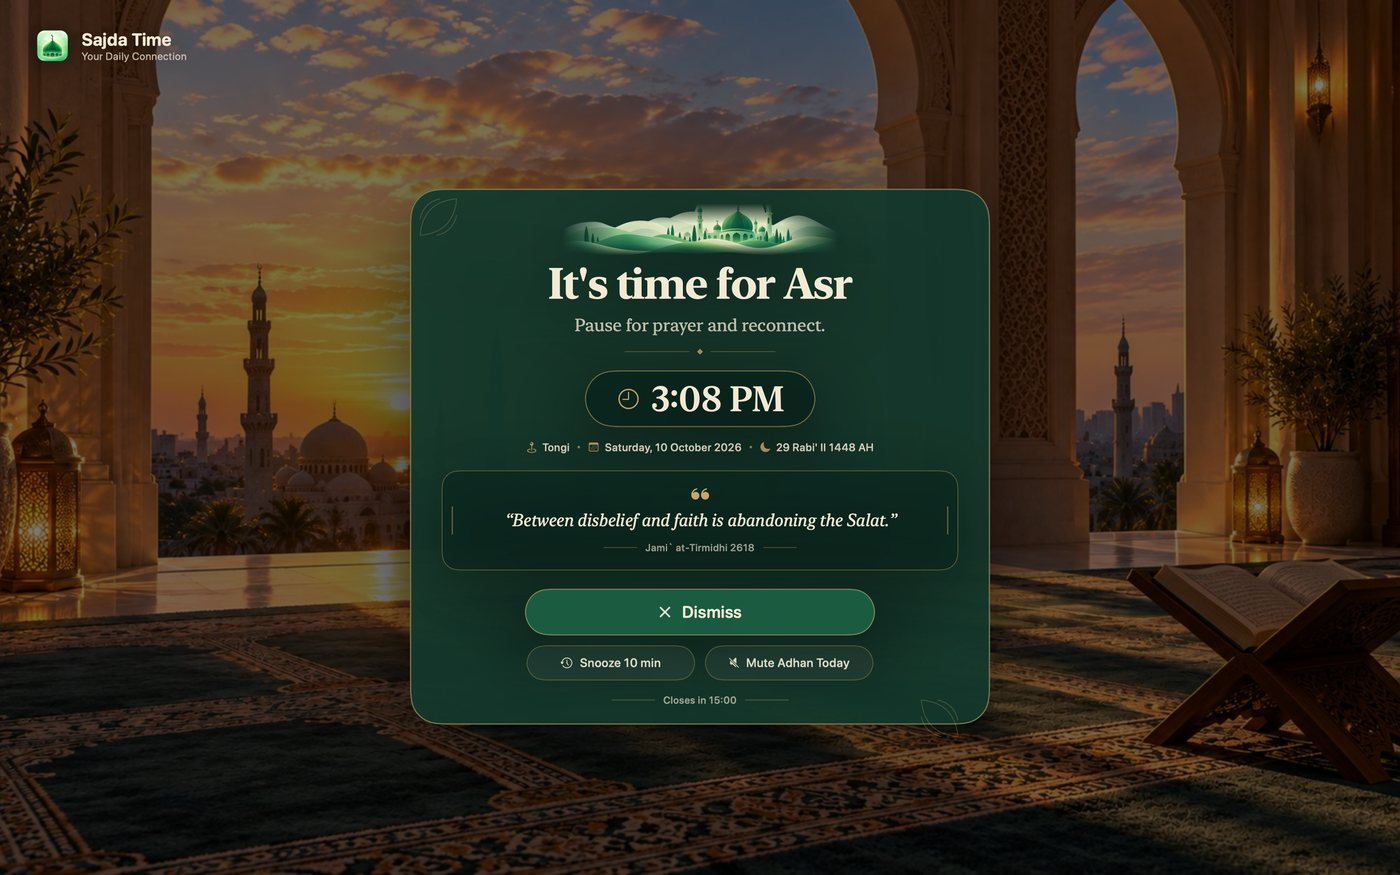
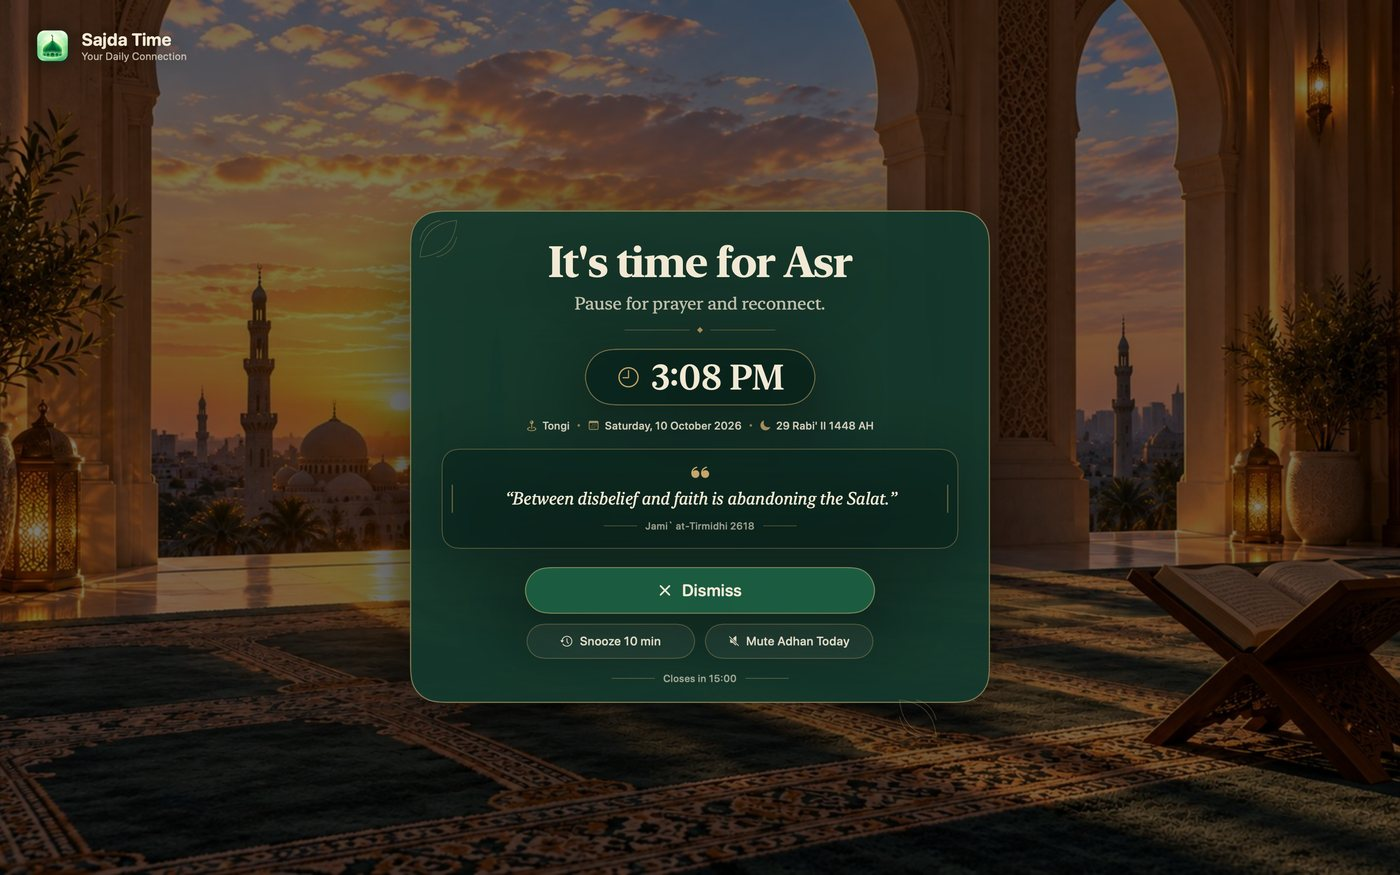
Remove the artwork from the head of the reminder card
With the arch gone and the artwork gone, the card opens on the prayer name; the
title takes the padding the ornament had held. The BannerArt property went with
it — the panel and the settings summary still use the illustration.

Changed region(s): [[0.2764, 0.216, 0.7064, 0.8331]]

diff --git a/Sources/SajdaTimeApp/PrayerAlertView.swift b/Sources/SajdaTimeApp/PrayerAlertView.swift
@@ -105,17 +105,13 @@ struct PrayerAlertView: View {
 
     private var card: some View {
         VStack(spacing: 0) {
-            // The app's own artwork, in place of the drawn arch.
-            illustration
-                .padding(.top, 18)
-
             Text("It's time for \(prayer.displayName)")
                 .font(.system(size: 52, weight: .bold, design: .serif))
                 .tracking(-1.0)
                 .foregroundStyle(Palette.cream)
                 .lineLimit(1)
                 .minimumScaleFactor(0.5)
-                .padding(.top, 2)
+                .padding(.top, 30)
 
             Text("Pause for prayer and reconnect.")
                 .font(.system(size: 21, design: .serif))
@@ -147,41 +143,6 @@ struct PrayerAlertView: View {
         )
         .overlay { filigree }
         .shadow(color: .black.opacity(0.55), radius: 46, y: 22)
-    }
-
-    /// The app's artwork at the head of the card, in place of the drawn arch.
-    /// Fitted so the whole scene shows, and faded at the base so it sits on the
-    /// emerald rather than ending on a hard edge.
-    private var illustration: some View {
-        // Filled and anchored low, so the crop lands on the mosque and the hills.
-        // Fitted whole, the artwork's pale sun sat directly above the title as a
-        // bright blob against the emerald.
-        BannerArt(mode: .fill)
-            .frame(width: 330, height: 62, alignment: .bottom)
-            .clipped()
-            .mask(
-                LinearGradient(
-                    stops: [
-                        .init(color: .clear, location: 0.00),
-                        .init(color: .black, location: 0.38),
-                        .init(color: .black, location: 0.78),
-                        .init(color: .clear, location: 1.00),
-                    ],
-                    startPoint: .top, endPoint: .bottom
-                )
-            )
-            .mask(
-                LinearGradient(
-                    stops: [
-                        .init(color: .clear, location: 0.00),
-                        .init(color: .black, location: 0.20),
-                        .init(color: .black, location: 0.80),
-                        .init(color: .clear, location: 1.00),
-                    ],
-                    startPoint: .leading, endPoint: .trailing
-                )
-            )
-            .opacity(0.95)
     }
 
     private var timeChip: some View {
